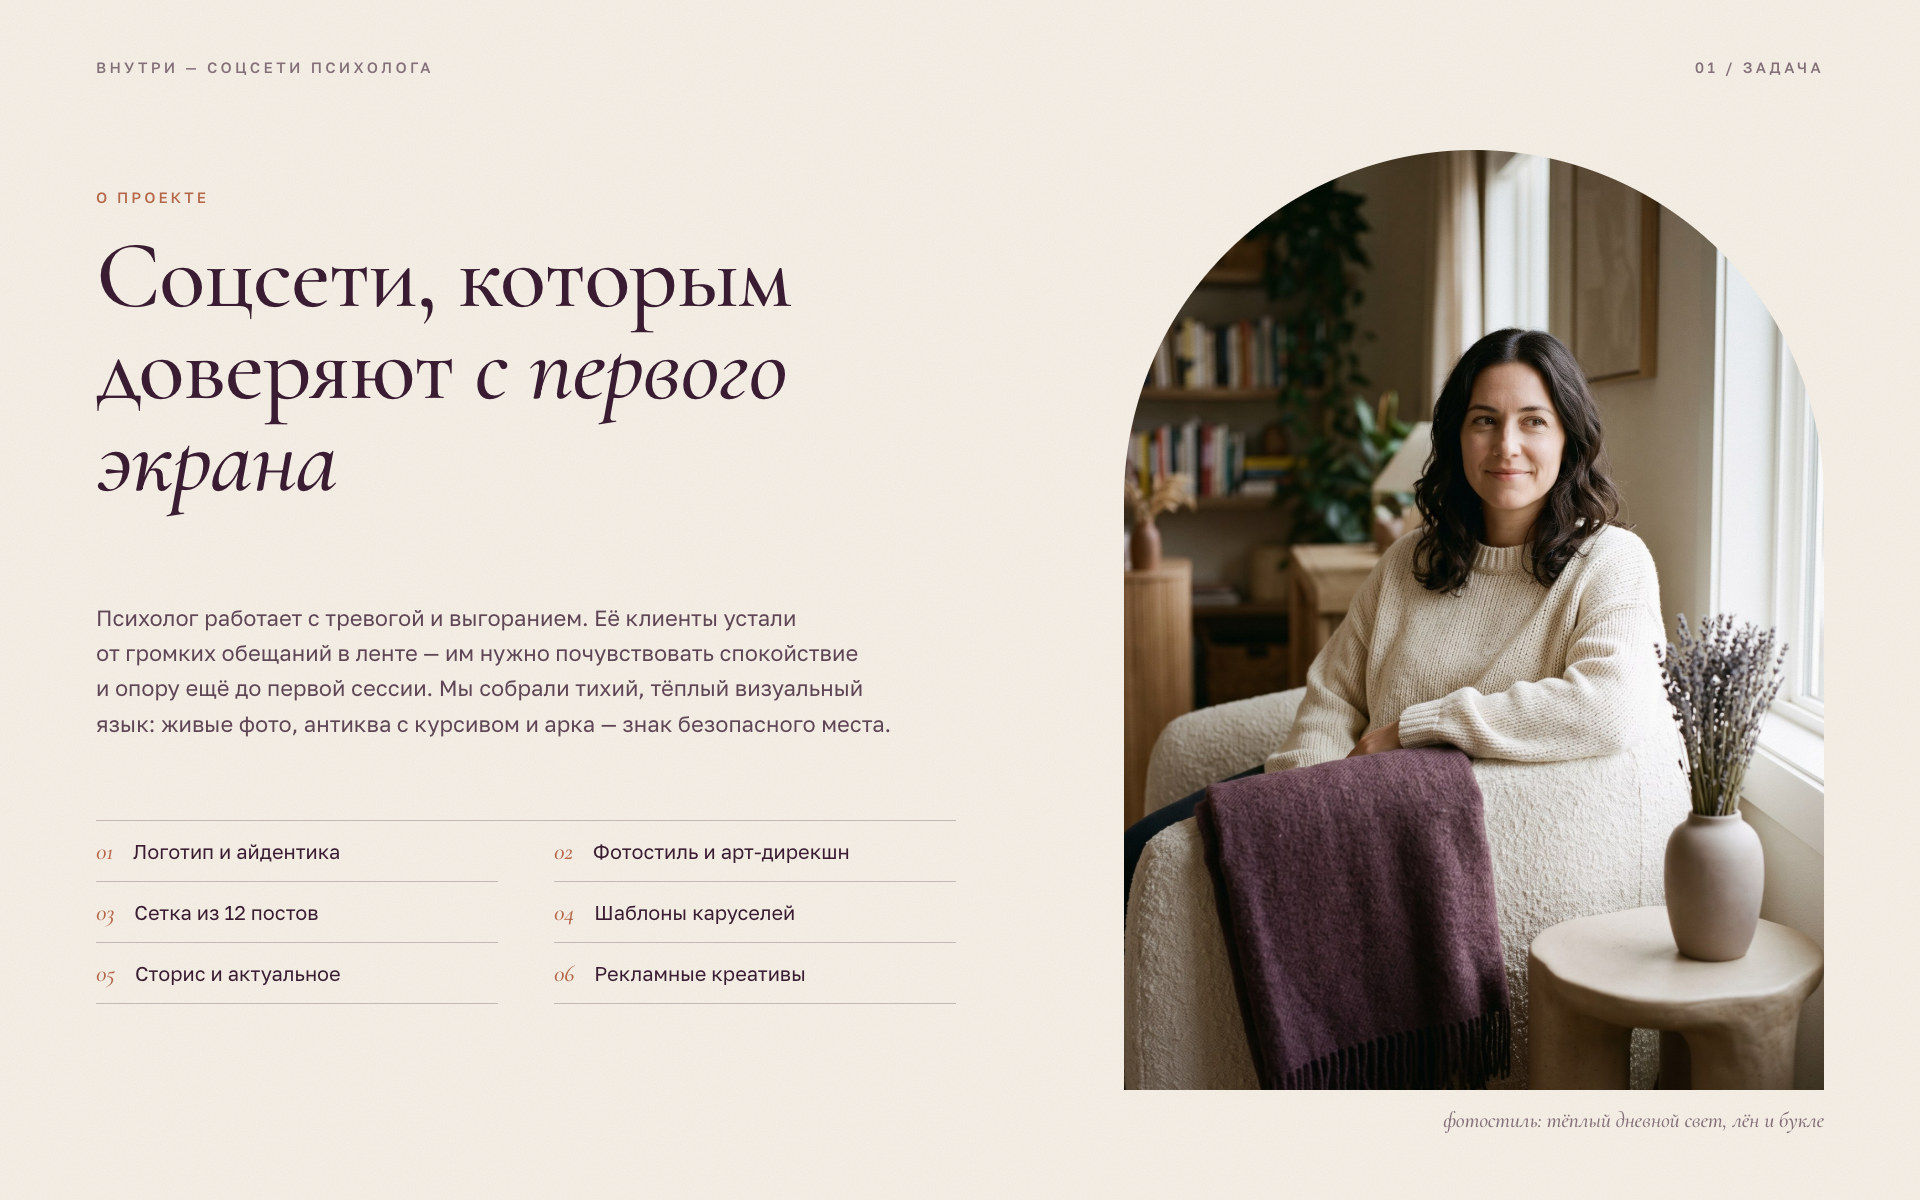
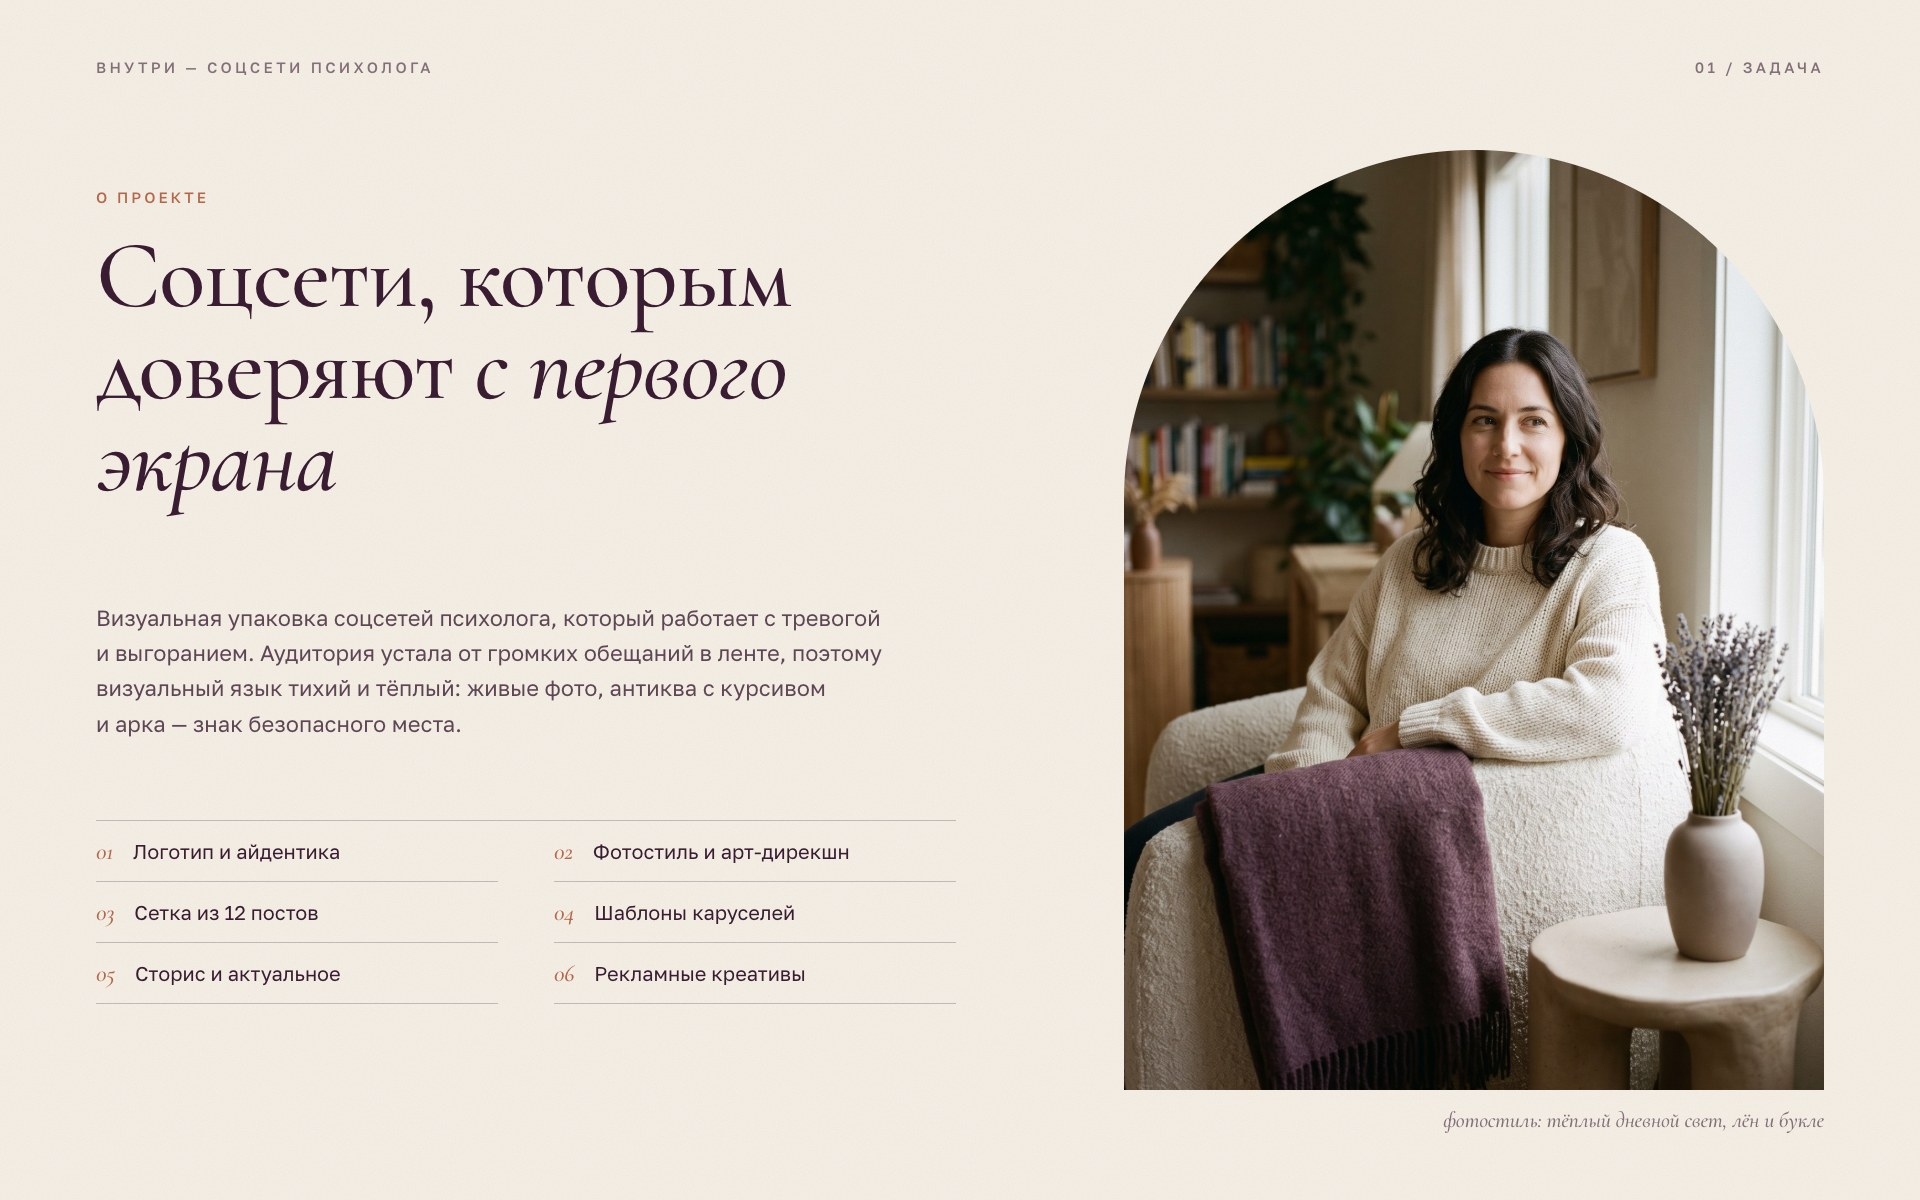
«Внутри»: нейтральный текст на слайде «Задача»

Changed region(s): [[0.0625, 0.4933, 0.4688, 0.6167]]

diff --git a/data.js b/data.js
@@ -99,7 +99,7 @@ window.WORKS = [
     task: "Визуальная упаковка соцсетей психолога, который работает с тревогой и выгоранием. Аудитория устала от громких обещаний в ленте, поэтому профиль должен с первого экрана давать ощущение спокойствия и опоры, а посты — читаться до конца и вести к записи на консультацию.",
     solution: "Собрал тихий тёплый визуальный язык. Знак — открытая арка как образ безопасного места, и та же арка повторяется в кадрировании фото. Фотостиль держится на дневном свете, льне и букле, в шрифтах — антиква с курсивом. Что вошло в проект: сетка из 12 постов в формате 3:4, шаблоны каруселей и сторис, обложки актуального и рекламные креативы под два оффера.",
     images: [
-      "works/vnutri-social/01-brief.jpg",
+      "works/vnutri-social/01-brief.jpg?v=2",
       "works/vnutri-social/02-identity.jpg",
       "works/vnutri-social/03-photo.jpg",
       "works/vnutri-social/04-grid.jpg",
